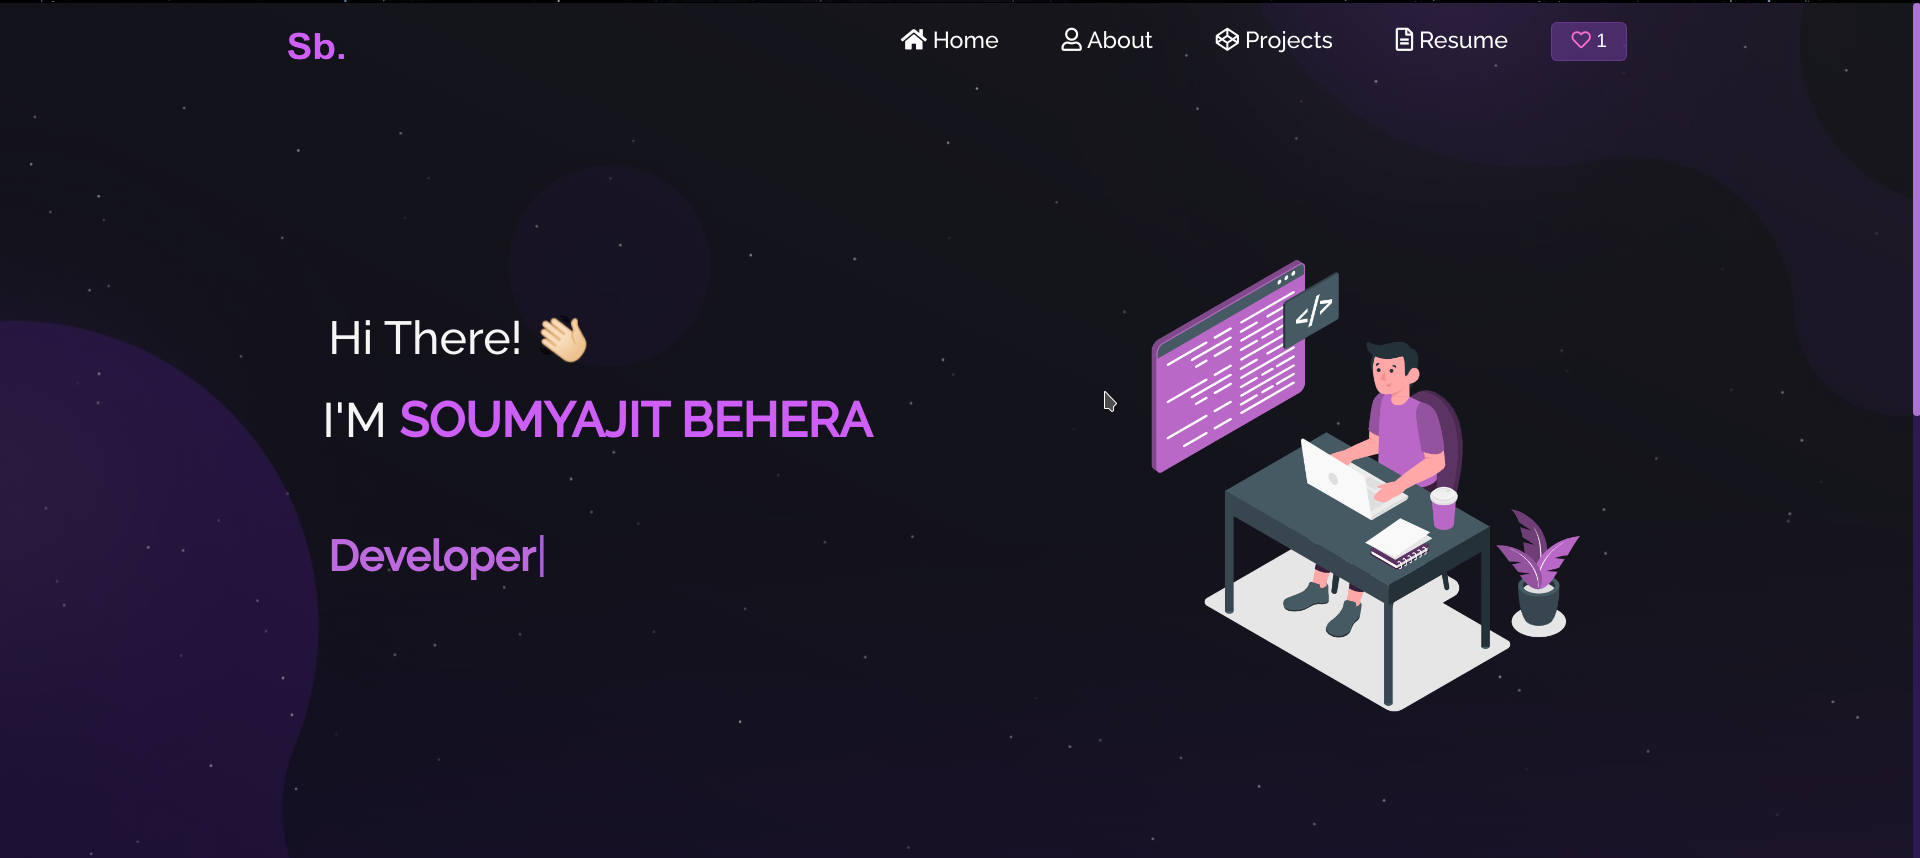
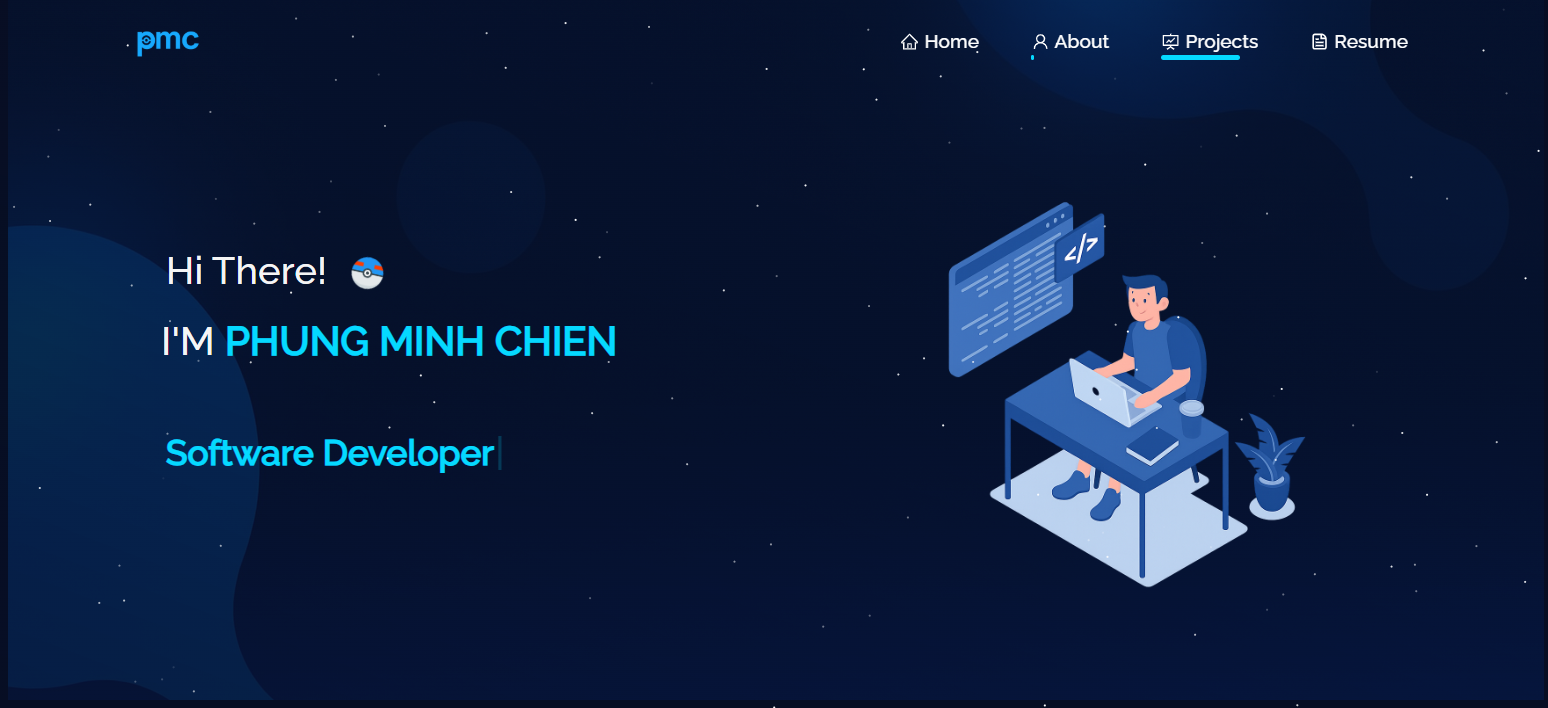
upload image

diff --git a/README.md b/README.md
@@ -1,12 +1,12 @@
 <h2 align="center">
-  Portfolio Website - v2.0<br/>
-  <a href="https://soumyajit.vercel.app/" target="_blank">soumyajit.tech</a>
+  Portfolio Website<br/>
+  <a href="https://pmc0910.vercel.app/" target="_blank">https://pmc0910.vercel.app/</a>
 </h2>
 <div align="center">
-  <img alt="Demo" src="./Images/readme-img1.png" />
+  <img alt="Demo" src="./Images/readme-img.png" />
 </div>
 
-<br/>
+<!-- <br/>
 
 <center>
 
@@ -27,9 +27,9 @@
 
 ## TL;DR
 
-You can fork this repo to modify and make changes of your own. Please give me proper credit by linking back to [Soumyajit4419](https://github.com/soumyajit4419/Portfolio). Thanks!
+You can fork this repo to modify and make changes of your own. Please give me proper credit by linking back to [Soumyajit4419](https://github.com/soumyajit4419/Portfolio). Thanks! -->
 
-## Built With
+<!-- ## Built With
 
 My personal portfolio <a href="https://soumyajit.vercel.app/" target="_blank">soumyajit.tech</a> which features some of my github projects as well as my resume and technical skills.<br/>
 
@@ -73,4 +73,4 @@ You will find all the components used and you can edit your information accordin
 
 Give a ⭐ if you like this website!
 
-<a href="https://www.buymeacoffee.com/soumyajit4419" target="_blank"><img src="https://cdn.buymeacoffee.com/buttons/v2/default-violet.png" alt="Buy Me A Coffee" height= "60px" width= "217px" ></a>
+<a href="https://www.buymeacoffee.com/soumyajit4419" target="_blank"><img src="https://cdn.buymeacoffee.com/buttons/v2/default-violet.png" alt="Buy Me A Coffee" height= "60px" width= "217px" ></a> -->
